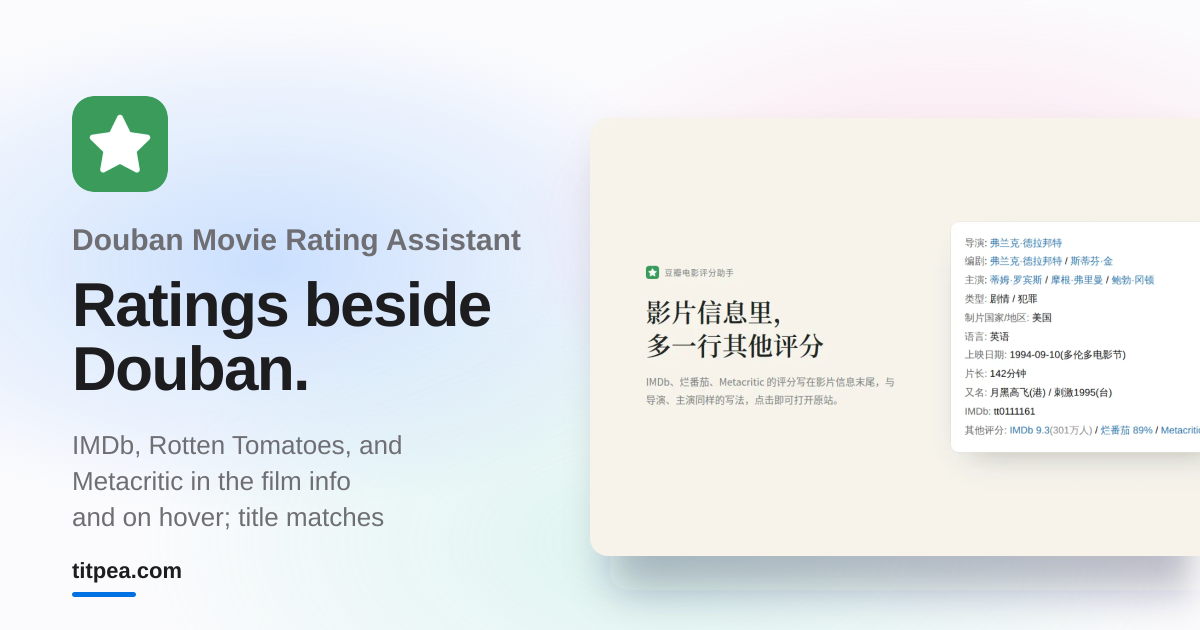
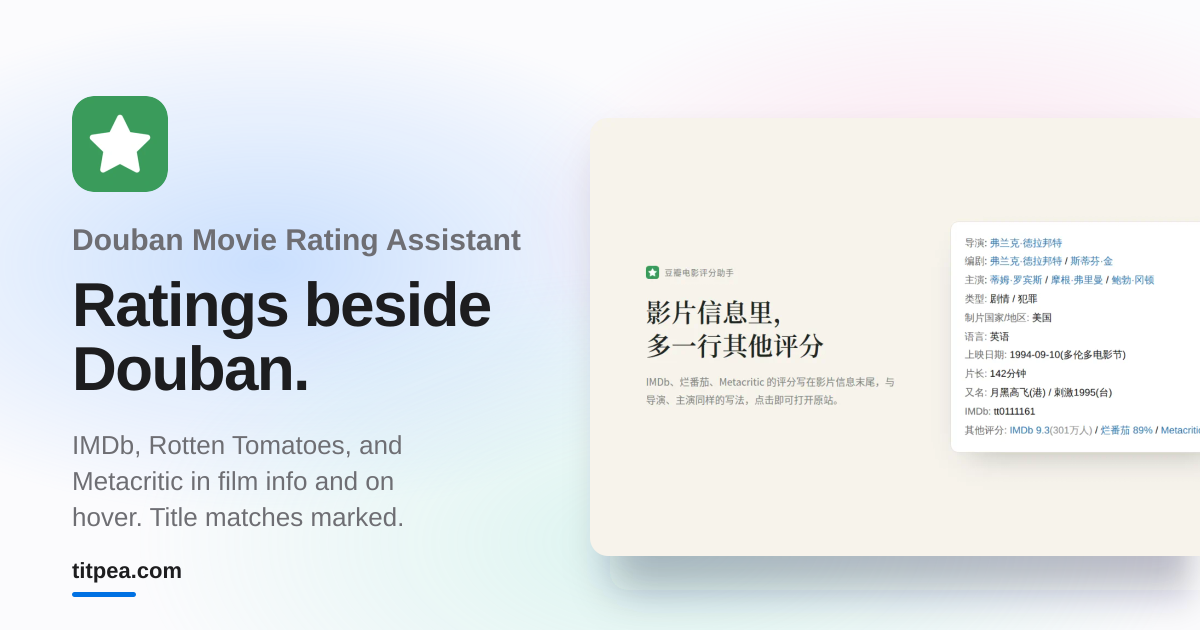
Douban: shorter catalog line so the share card keeps the title-match note
Claude-Session: https://claude.ai/code/session_01JmaFxrCaTr7J8dy17sm4dB

Changed region(s): [[0.0617, 0.7841, 0.3392, 0.8444], [0.185, 0.754, 0.3392, 0.7841]]

diff --git a/src/content/products/douban-movie-rating.ts b/src/content/products/douban-movie-rating.ts
@@ -20,7 +20,7 @@ export default defineProduct({
     lead: "IMDb, Rotten Tomatoes, Metacritic. In the film details and on hover. Title matches labelled.",
     catalog: {
       role: "On Douban",
-      text: "IMDb, Rotten Tomatoes, and Metacritic in the film info and on hover; title matches labelled.",
+      text: "IMDb, Rotten Tomatoes, and Metacritic in film info and on hover. Title matches marked.",
     },
     primaryCta: {
       label: "Install",
